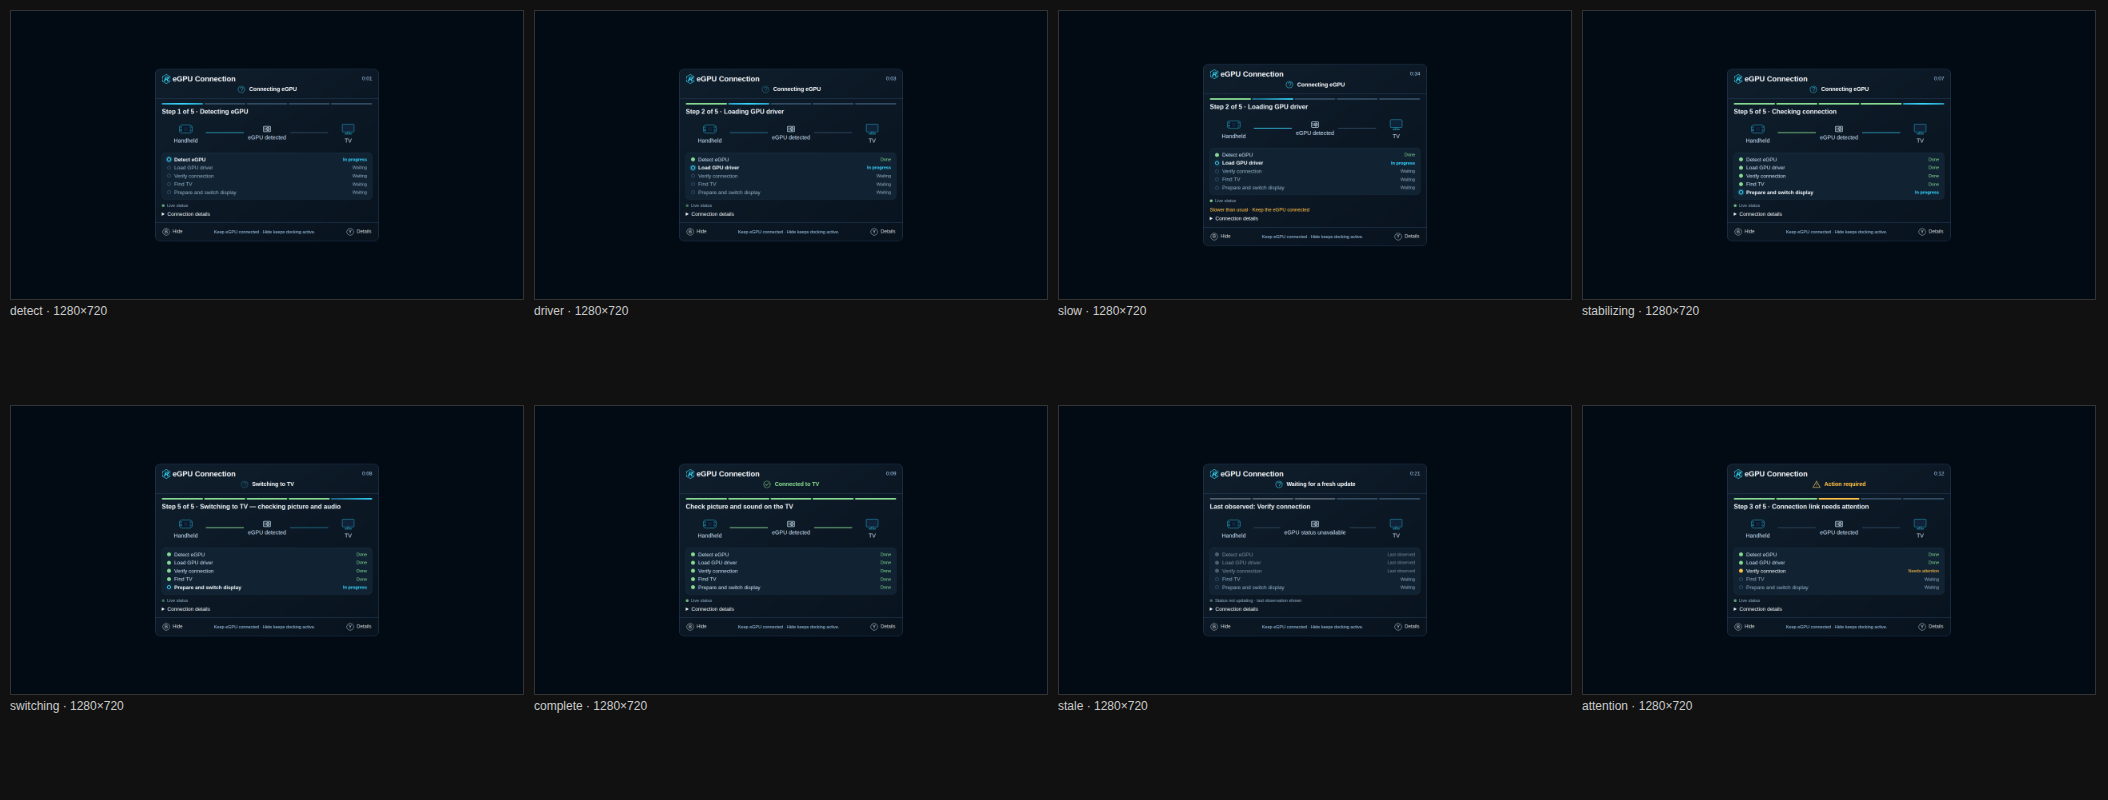
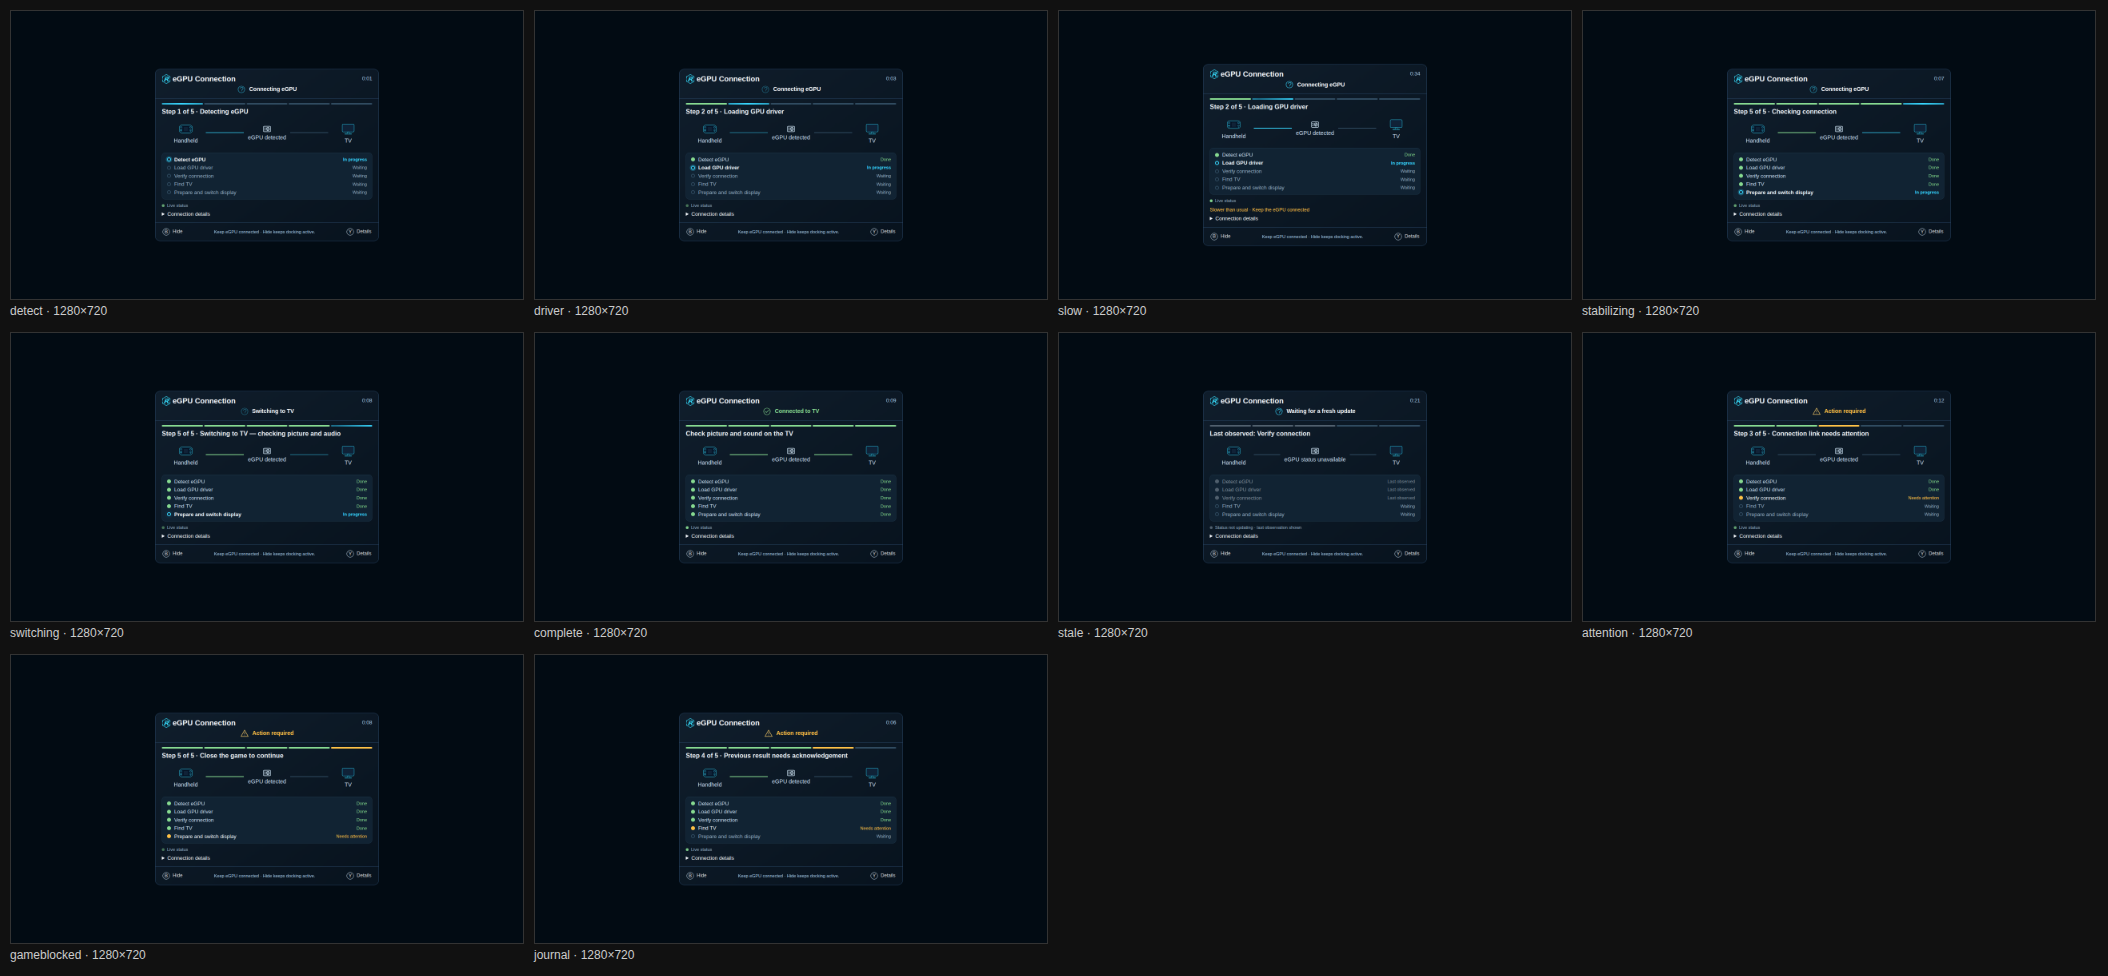
Describe stale popup progress as observed history
UI-primary review (1d12561), accessibility: stale progress now exposes
aria-valuetext "Status stale. Last observed at step N of 5: <label>"
alongside the historical completed count, never as current progress.
Adds a regression that attention states render no animated milestone
and regenerates both preview sheets with the game and retained-result
blocked states.

Claude-Session: https://claude.ai/code/session_01LTKvKR56Q11URT8QCLEY1Y

diff --git a/src/connection-progress-overlay.tsx b/src/connection-progress-overlay.tsx
@@ -17,7 +17,7 @@ export type ConnectionProgressOverlayProps = {
 };
 const rowState=(state:ConnectionProgressState):PopupState => state === "ready" ? "ready" : state === "blocked" ? "attention" : state === "error" ? "failed" : state === "switching" || state === "checking" ? "connecting" : "waiting";
 const coreLabels=["GPU and driver","Connection link","TV HDMI detected","Audio recovery ready","Display switching ready"];
-const unknownMilestones:MilestoneModel={activeStep:-1,observedDone:0,steps:["Detect eGPU","Load GPU driver","Verify connection","Find TV","Prepare and switch display"].map(label=>({label,state:"pending"})),headline:"Waiting for connection",currentDetail:"Waiting for a status update",complete:false,stale:false,attention:false};
+const unknownMilestones:MilestoneModel={activeStep:-1,observedDone:0,progressText:"Waiting for a status update",steps:["Detect eGPU","Load GPU driver","Verify connection","Find TV","Prepare and switch display"].map(label=>({label,state:"pending"})),headline:"Waiting for connection",currentDetail:"Waiting for a status update",complete:false,stale:false,attention:false};
 const milestoneCopy:Record<string,string>={done:"Done",active:"In progress",pending:"Waiting",attention:"Needs attention",stale:"Last observed"};
 export function ConnectionProgressOverlay(props:ConnectionProgressOverlayProps) {
   const details=useRef<HTMLDetailsElement>(null);
@@ -43,7 +43,7 @@ export function ConnectionProgressOverlay(props:ConnectionProgressOverlayProps) 
     <div className="rg-popup-recovery">{props.recoveryAction}</div>
   </>}>
     <div className="rg-milestones" data-stale={m.stale} data-complete={m.complete}>
-      <div className="rg-milestone-bar" role="progressbar" aria-label="Connection milestones" aria-valuemin={0} aria-valuemax={m.steps.length} aria-valuenow={m.observedDone} aria-valuetext={m.currentDetail}>
+      <div className="rg-milestone-bar" role="progressbar" aria-label="Connection milestones" aria-valuemin={0} aria-valuemax={m.steps.length} aria-valuenow={m.observedDone} aria-valuetext={m.progressText}>
         {m.steps.map(step=><span key={step.label} className="rg-milestone-segment" data-state={step.state}/>)}
       </div>
       <div className="rg-milestone-current" title={m.currentDetail}>{m.currentDetail}</div>

diff --git a/src/connection-progress-model.ts b/src/connection-progress-model.ts
@@ -9,6 +9,8 @@ export type MilestoneModel = {
   activeStep: number;
   /** Milestones observed complete, kept when stale so assistive text matches "Last observed". */
   observedDone: number;
+  /** Accessible progress text; stale history is never described as current. */
+  progressText: string;
   steps: Milestone[];
   headline: string;
   currentDetail: string;
@@ -88,7 +90,11 @@ export function connectionMilestones(status: LiveStatus & {displayPending?: bool
     && Number.isFinite(status.seconds) && status.seconds >= SLOW_NOTICE_SECONDS
     ? "Slower than usual · Keep the eGPU connected" : undefined;
   const observedDone = activeStep < 0 ? 0 : Math.min(activeStep, MILESTONE_LABELS.length);
-  return {activeStep, observedDone, steps, headline, currentDetail, complete, stale: !fresh, attention, slowNotice};
+  const progressText = !fresh
+    ? known ? `Status stale. Last observed at step ${activeStep + 1} of ${MILESTONE_LABELS.length}: ${MILESTONE_LABELS[activeStep]}`
+      : "Status stale. No milestone observed"
+    : currentDetail;
+  return {activeStep, observedDone, progressText, steps, headline, currentDetail, complete, stale: !fresh, attention, slowNotice};
 }
 
 /** Presentation adapter for the existing monitor: no snapshot inference or I/O. */
